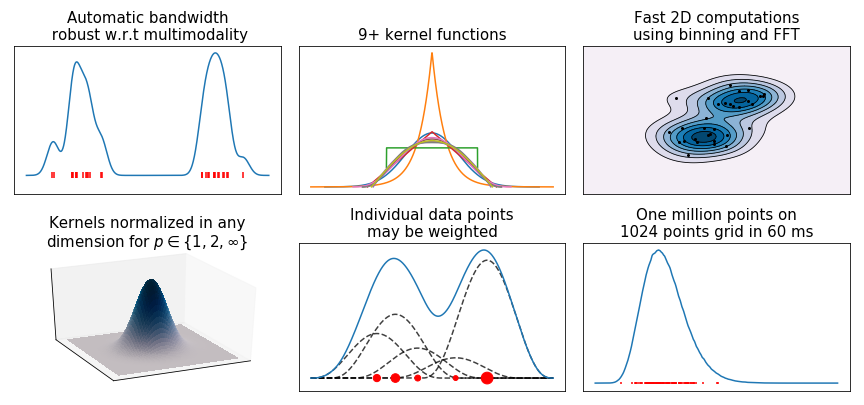
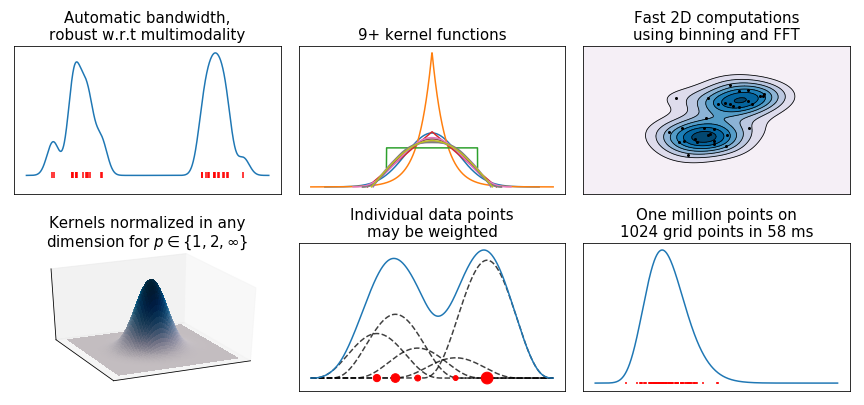
spellchecked figures

diff --git a/KDEpy/examples.py b/KDEpy/examples.py
@@ -75,7 +75,7 @@ FONTSIZE = 15
 
 plt.subplot(2, 3, 1)
 n = 15
-plt.title('Automatic bandwidth\n robust w.r.t multimodality', fontsize=FONTSIZE)
+plt.title('Automatic bandwidth,\nrobust w.r.t multimodality', fontsize=FONTSIZE)
 data = np.concatenate((np.random.randn(n), np.random.randn(n) + 10))
 plt.scatter(data, np.zeros_like(data), marker='|', color='red', label='Data')
 x, y = FFTKDE(bw='ISJ').fit(data)()
@@ -106,7 +106,6 @@ grid_points = 2**7  # Grid points in each dimension
 N = 8  # Number of contours
 x, z = FFTKDE(bw=1).fit(data)((grid_points, grid_points))
 x, y = np.unique(x[:, 0]), np.unique(x[:, 1])
-print(x.shape, y.shape, z.shape)
 z = z.reshape(grid_points, grid_points).T
 plt.contour(x, y, z, N, linewidths=0.8, colors='k')
 plt.contourf(x, y, z, N, cmap="PuBu")
@@ -154,10 +153,10 @@ plt.grid(True, ls='--', zorder=-15)
 plt.subplot(2, 3, 6)
 data = np.random.gamma(10, 100, size=(10**6))
 st = time.perf_counter()
-x, y = FFTKDE(kernel='gaussian', bw=10).fit(data)(2**10)
+x, y = FFTKDE(kernel='gaussian', bw=100).fit(data)(2**10)
 timed = (time.perf_counter() - st)*1000
 plt.plot(x, y)
-plt.title('One million points on\n1024 points' + f' grid in {int(round(timed,0))} ms', fontsize=FONTSIZE)
+plt.title('One million points on\n1024 grid' + f' points in {int(round(timed,0))} ms', fontsize=FONTSIZE)
 data = np.random.choice(data, size=100,replace=False)
 plt.scatter(data, np.zeros_like(data), marker='|', color='red', label='Data', s=3)
 plt.yticks([]); plt.xticks([]);
